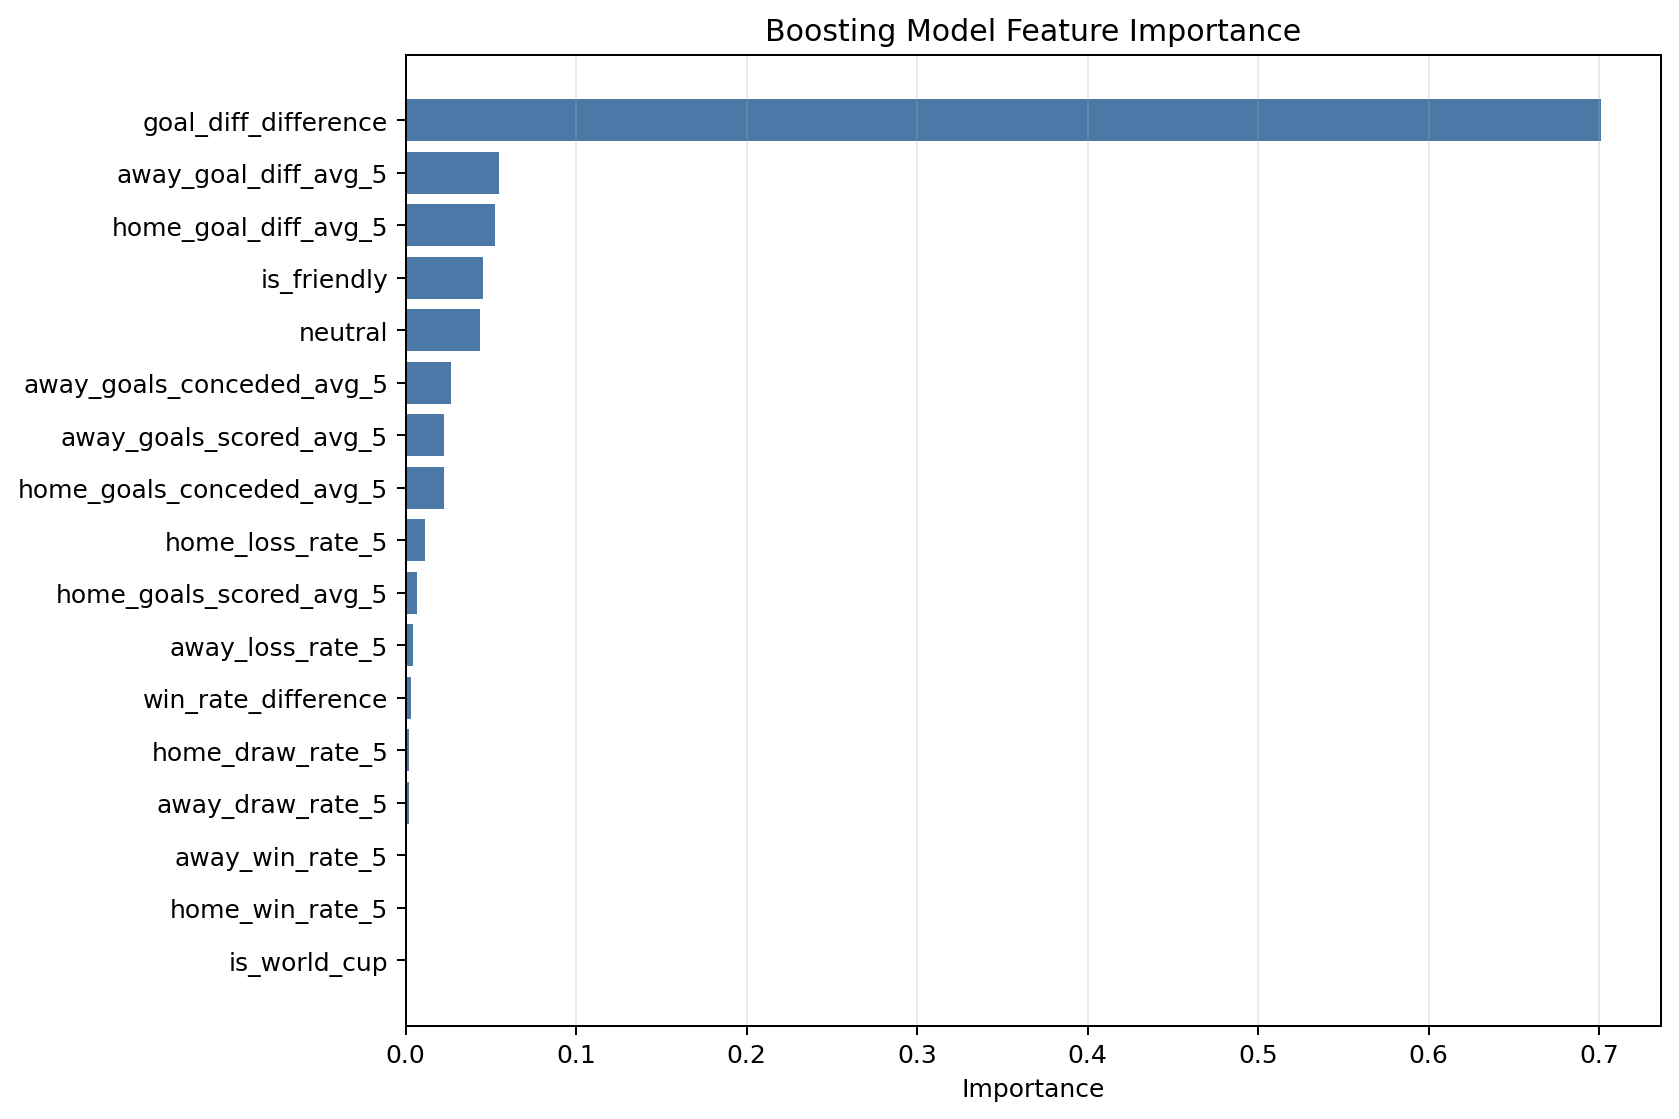
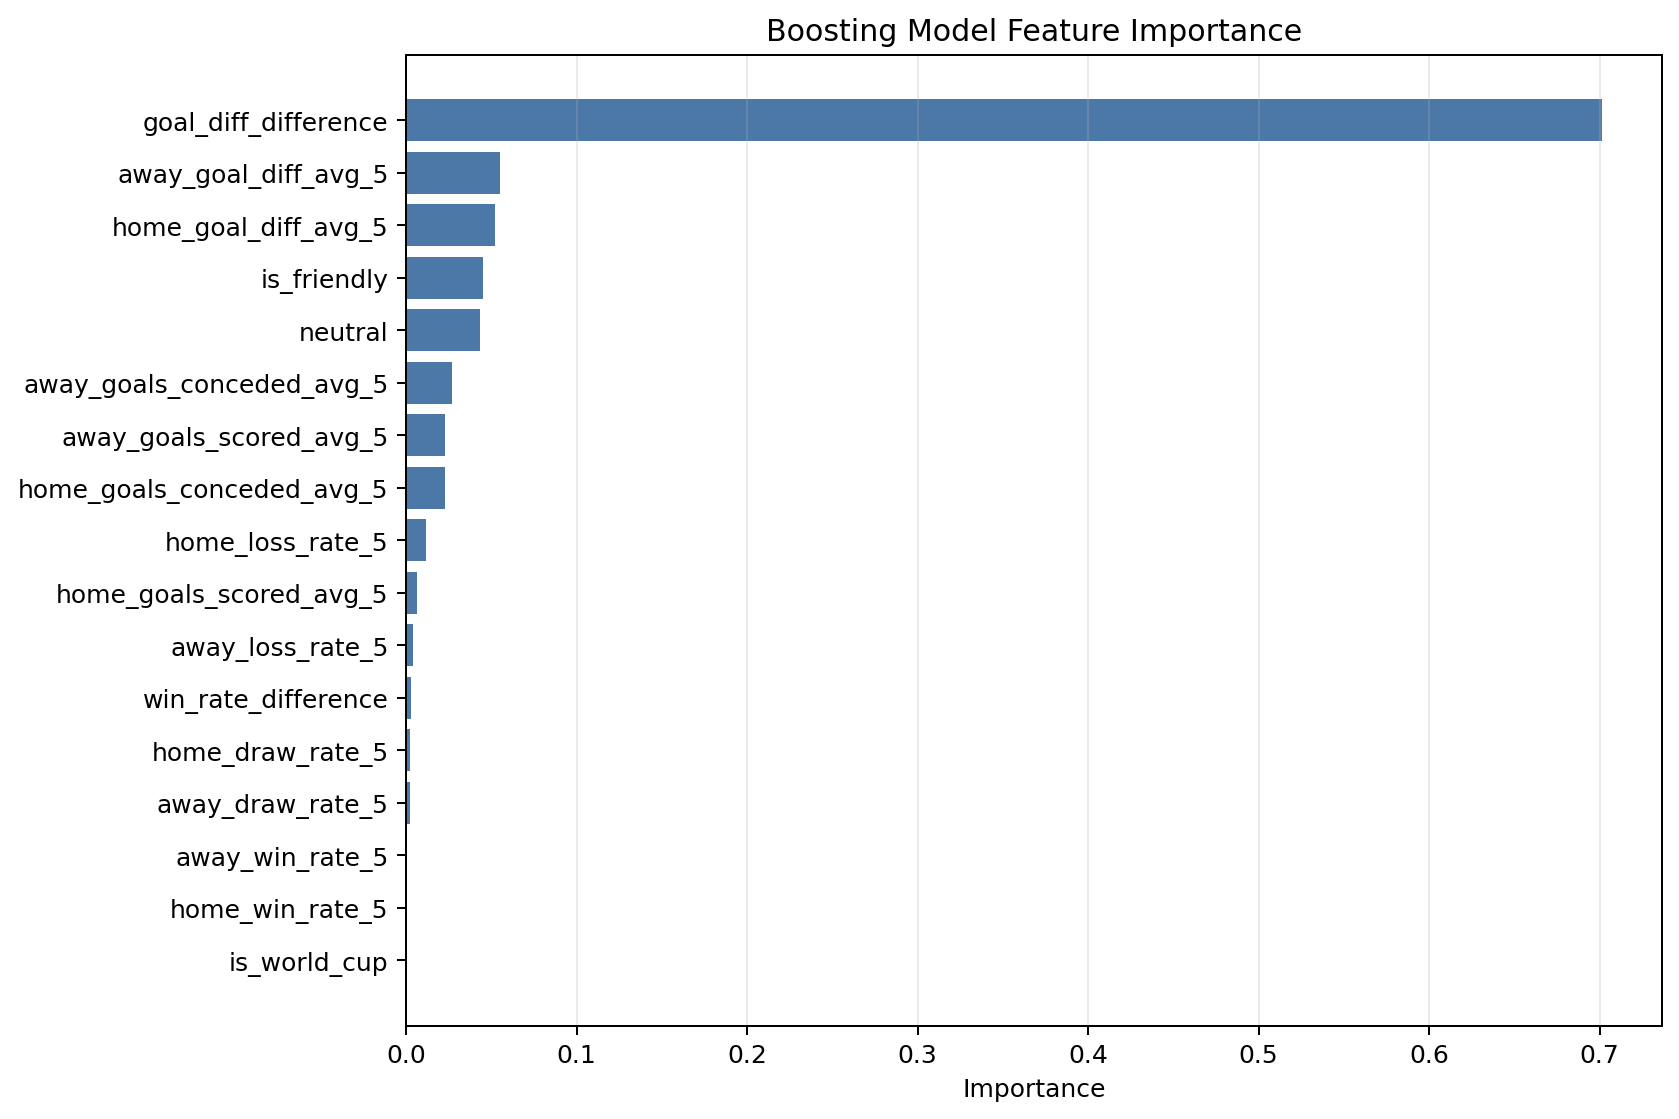
Add naive baseline and update report

diff --git a/train_and_evaluate_models.py b/train_and_evaluate_models.py
@@ -22,6 +22,7 @@ from sklearn.metrics import (
     recall_score,
 )
 from sklearn.tree import DecisionTreeClassifier
+from sklearn.dummy import DummyClassifier
 
 
 RANDOM_STATE = 42
@@ -110,6 +111,10 @@ def tune_model(model_factory, param_grid, X_train, y_train):
 
     return final_model, best_params, best_accuracy
 
+def train_most_frequent_baseline(X_train, y_train):
+    model = DummyClassifier(strategy="most_frequent")
+    model.fit(X_train, y_train)
+    return model, {"strategy": "most_frequent"}, None
 
 def train_logistic_regression(X_train, y_train):
     param_grid = [
@@ -190,11 +195,25 @@ def train_boosting_model(X_train, y_train):
 
 
 def plot_confusion_matrices(metric_by_key):
-    fig, axes = plt.subplots(2, 2, figsize=(12, 9), constrained_layout=True)
-    axes = axes.flatten()
+    n_models = len(metric_by_key)
+    n_cols = 2
+    n_rows = int(np.ceil(n_models / n_cols))
+
+    fig, axes = plt.subplots(
+        n_rows,
+        n_cols,
+        figsize=(12, 4.5 * n_rows),
+        constrained_layout=True,
+    )
+
+    axes = np.array(axes).reshape(-1)
+
+    for axis in axes[n_models:]:
+        axis.axis("off")
 
     for axis, (title, metrics) in zip(axes, metric_by_key.items()):
         matrix = np.array(metrics["confusion_matrix"])
+
         image = axis.imshow(matrix, cmap="Blues")
         axis.set_title(title)
         axis.set_xlabel("Predicted label")
@@ -203,10 +222,18 @@ def plot_confusion_matrices(metric_by_key):
         axis.set_yticks(range(len(CLASS_NAMES)), CLASS_NAMES)
 
         threshold = matrix.max() / 2
+
         for row in range(matrix.shape[0]):
             for col in range(matrix.shape[1]):
                 color = "white" if matrix[row, col] > threshold else "black"
-                axis.text(col, row, str(matrix[row, col]), ha="center", va="center", color=color)
+                axis.text(
+                    col,
+                    row,
+                    str(matrix[row, col]),
+                    ha="center",
+                    va="center",
+                    color=color,
+                )
 
         fig.colorbar(image, ax=axis, fraction=0.046, pad=0.04)
 
@@ -219,12 +246,15 @@ def plot_accuracy_comparison(metric_by_key):
     names = list(metric_by_key.keys())
     accuracies = [metric_by_key[name]["test_accuracy"] for name in names]
 
-    fig, axis = plt.subplots(figsize=(8, 5))
-    bars = axis.bar(names, accuracies, color=["#4c78a8", "#f58518", "#54a24b"])
+    fig, axis = plt.subplots(figsize=(9, 5))
+
+    bars = axis.bar(names, accuracies)
+
     axis.set_ylim(0, 1)
     axis.set_ylabel("Test accuracy")
     axis.set_title("Model Accuracy Comparison")
     axis.grid(axis="y", alpha=0.25)
+    axis.tick_params(axis="x", rotation=25)
 
     for bar, accuracy in zip(bars, accuracies):
         axis.text(
@@ -237,7 +267,6 @@ def plot_accuracy_comparison(metric_by_key):
 
     fig.savefig("accuracy_comparison.png", dpi=180, bbox_inches="tight")
     plt.close(fig)
-
 
 def plot_feature_importance(model, feature_names):
     importances = getattr(model, "feature_importances_", None)
@@ -279,7 +308,25 @@ def write_model_comparison(metric_by_key):
 def main():
     X_train, X_test, y_train, y_test, feature_names = load_inputs()
 
-    lr_model, lr_params, lr_validation_accuracy = train_logistic_regression(X_train, y_train)
+    baseline_model, baseline_params, baseline_validation_accuracy = train_most_frequent_baseline(
+        X_train,
+        y_train,
+    )
+    baseline_predictions = baseline_model.predict(X_test)
+    baseline_metrics = metric_payload(
+        "Baseline: Most Frequent Class",
+        baseline_params,
+        y_test,
+        baseline_predictions,
+        baseline_validation_accuracy,
+    )
+    np.save("baseline_predictions.npy", baseline_predictions)
+    write_json("baseline_metrics.json", baseline_metrics)
+
+    lr_model, lr_params, lr_validation_accuracy = train_logistic_regression(
+        X_train,
+        y_train,
+    )
     lr_predictions = lr_model.predict(X_test)
     lr_metrics = metric_payload(
         "Logistic Regression",
@@ -291,7 +338,10 @@ def main():
     np.save("lr_predictions.npy", lr_predictions)
     write_json("lr_metrics.json", lr_metrics)
 
-    rf_model, rf_params, rf_validation_accuracy = train_random_forest(X_train, y_train)
+    rf_model, rf_params, rf_validation_accuracy = train_random_forest(
+        X_train,
+        y_train,
+    )
     rf_predictions = rf_model.predict(X_test)
     rf_metrics = metric_payload(
         "Random Forest",
@@ -303,7 +353,10 @@ def main():
     np.save("rf_predictions.npy", rf_predictions)
     write_json("rf_metrics.json", rf_metrics)
 
-    dt_model, dt_params, dt_validation_accuracy = train_decision_tree(X_train, y_train)
+    dt_model, dt_params, dt_validation_accuracy = train_decision_tree(
+        X_train,
+        y_train,
+    )
     dt_predictions = dt_model.predict(X_test)
     dt_metrics = metric_payload(
         "Decision Tree",
@@ -316,7 +369,8 @@ def main():
     write_json("dt_metrics.json", dt_metrics)
 
     boosting_model, boosting_params, boosting_validation_accuracy = train_boosting_model(
-        X_train, y_train
+        X_train,
+        y_train,
     )
     boosting_predictions = boosting_model.predict(X_test)
     boosting_metrics = metric_payload(
@@ -334,6 +388,7 @@ def main():
     write_json("xgb_metrics.json", boosting_metrics)
 
     metric_by_key = {
+        "Baseline": baseline_metrics,
         "Logistic Regression": lr_metrics,
         "Decision Tree": dt_metrics,
         "Random Forest": rf_metrics,
@@ -351,7 +406,6 @@ def main():
             f"{name}: accuracy={metrics['test_accuracy']:.4f}, "
             f"macro_f1={metrics['test_f1_macro']:.4f}"
         )
-
 
 if __name__ == "__main__":
     main()

diff --git a/final_report.md b/final_report.md
@@ -23,6 +23,8 @@ The main research question is:
 This problem is relevant for sports analytics, betting market research, team
 strategy, fan engagement, and tournament forecasting.
 
+To make the evaluation more meaningful, the project also includes a naive benchmark. This benchmark always predicts the most frequent outcome observed in the training set. It gives us a simple reference point to check whether the machine learning models actually add predictive value.
+
 ## 2. Dataset Description and Preprocessing
 
 The project uses the Kaggle international football results dataset. The raw data
@@ -72,12 +74,10 @@ difference, comparative form differences, neutral venue, World Cup indicator,
 and friendly match indicator. Because every feature is computed from past
 matches only, the pipeline avoids data leakage.
 
-## 3. Champion Approach: Logistic Regression
+## 3. Benchmark and Champion Approach
+Before selecting the champion model, we evaluated a naive benchmark based on the most frequent class strategy. This model always predicts the outcome that appears most often in the training set. Since home wins are the most frequent class, the benchmark mainly shows how far a very simple rule can go without learning from the engineered features.
 
-Logistic Regression was selected as the champion baseline model because it is
-simple, fast, interpretable, and academically easy to explain. It learns a
-linear relationship between the engineered features and the probability of each
-match outcome.
+Logistic Regression was selected as the champion machine learning model because it is simple, fast, interpretable, and academically easy to explain. It learns a linear relationship between the engineered features and the probability of each match outcome.
 
 Strengths:
 
@@ -149,10 +149,11 @@ The models were evaluated on the chronological test set from 2022 onward.
 
 | Model | Accuracy | Macro F1 | Weighted F1 |
 | --- | ---: | ---: | ---: |
+| Baseline | 47.76% | 0.2155 | 0.3088 |
 | Logistic Regression | 53.10% | 0.3739 | 0.4517 |
+| Decision Tree | 52.89% | 0.3569 | 0.4371 |
 | Random Forest | 52.93% | 0.3641 | 0.4437 |
 | Gradient Boosting | 52.93% | 0.3697 | 0.4481 |
-| Decision Tree | 52.89% | 0.3569 | 0.4371 |
 
 Confusion matrices were saved in:
 
@@ -172,15 +173,11 @@ Feature importance plot:
 feature_importance.png
 ```
 
-The best model by accuracy was Logistic Regression. Decision Tree, Random
-Forest, and Gradient Boosting were extremely close, but did not clearly
-outperform the linear baseline. This supports the choice of Logistic Regression
-as the champion model: it is simpler, easier to explain, and slightly more
-accurate on the test set. The confusion matrices show that all models predict
-home wins much more easily than draws. This is an important limitation:
-optimizing for overall accuracy produces a useful baseline, but the minority
-draw class remains hard to capture.
+The naive benchmark achieved 47.76% accuracy and a macro F1 score of 0.2155. Logistic Regression improved accuracy to 53.10% and macro F1 to 0.3739. This means that the model adds predictive value beyond simply predicting the most frequent outcome.
 
+Among the machine learning models, Logistic Regression achieved the highest accuracy. Decision Tree, Random Forest, and Gradient Boosting were very close, yet none of them delivered a clear improvement over the champion model. For this reason, Logistic Regression remains the preferred model: it is slightly more accurate, simpler to explain, and more transparent.
+
+The confusion matrices show that all models predict home wins more easily than draws. This is an important limitation. Overall accuracy gives a useful first evaluation, but it can hide poor performance on the minority draw class.
 Top boosting feature importances:
 
 | Feature | Importance |
@@ -200,11 +197,9 @@ performance are direct indicators of current form.
 
 ## 6. Business and Application Results
 
-The results show that machine learning can capture part of the signal in
-international football outcomes, but the predictive ceiling is limited when
-using only historical match results and simple contextual indicators. Accuracy
-around 47-49% is still meaningfully above a random three-class classifier, but
-not strong enough to be used alone for high-risk betting decisions.
+The results show that machine learning can capture part of the signal in international football outcomes, but the predictive ceiling is limited when using only historical match results and simple contextual indicators.
+
+The champion model improves over the naive benchmark, moving from 47.76% to 53.10% accuracy. This is a real gain, but the model is still not strong enough to be used alone for high risk betting decisions.
 
 Potential applications:
 
@@ -232,10 +227,9 @@ player availability, rest days, travel distance, and betting market odds.
 This project built a complete chronological machine learning pipeline for
 international football outcome prediction. The final dataset contains 29,910
 matches and 17 engineered features based only on past information.
+The naive benchmark achieved 47.76% accuracy. Logistic Regression improved this result to 53.10%, with a macro F1 score of 0.3739. The tree based challengers were close, but they did not provide enough improvement to justify replacing the simpler champion model.
 
-Logistic Regression achieved the best test accuracy at 53.10%, while the
-tree-based challengers were close but slightly lower. The most important
-predictive signal was recent goal difference comparison between the two teams.
+The strongest predictive signal was the recent goal difference comparison between the two teams.
 
 The main conclusion is that football outcomes are partially predictable from
 historical form, but the sport remains highly uncertain. Better real-world